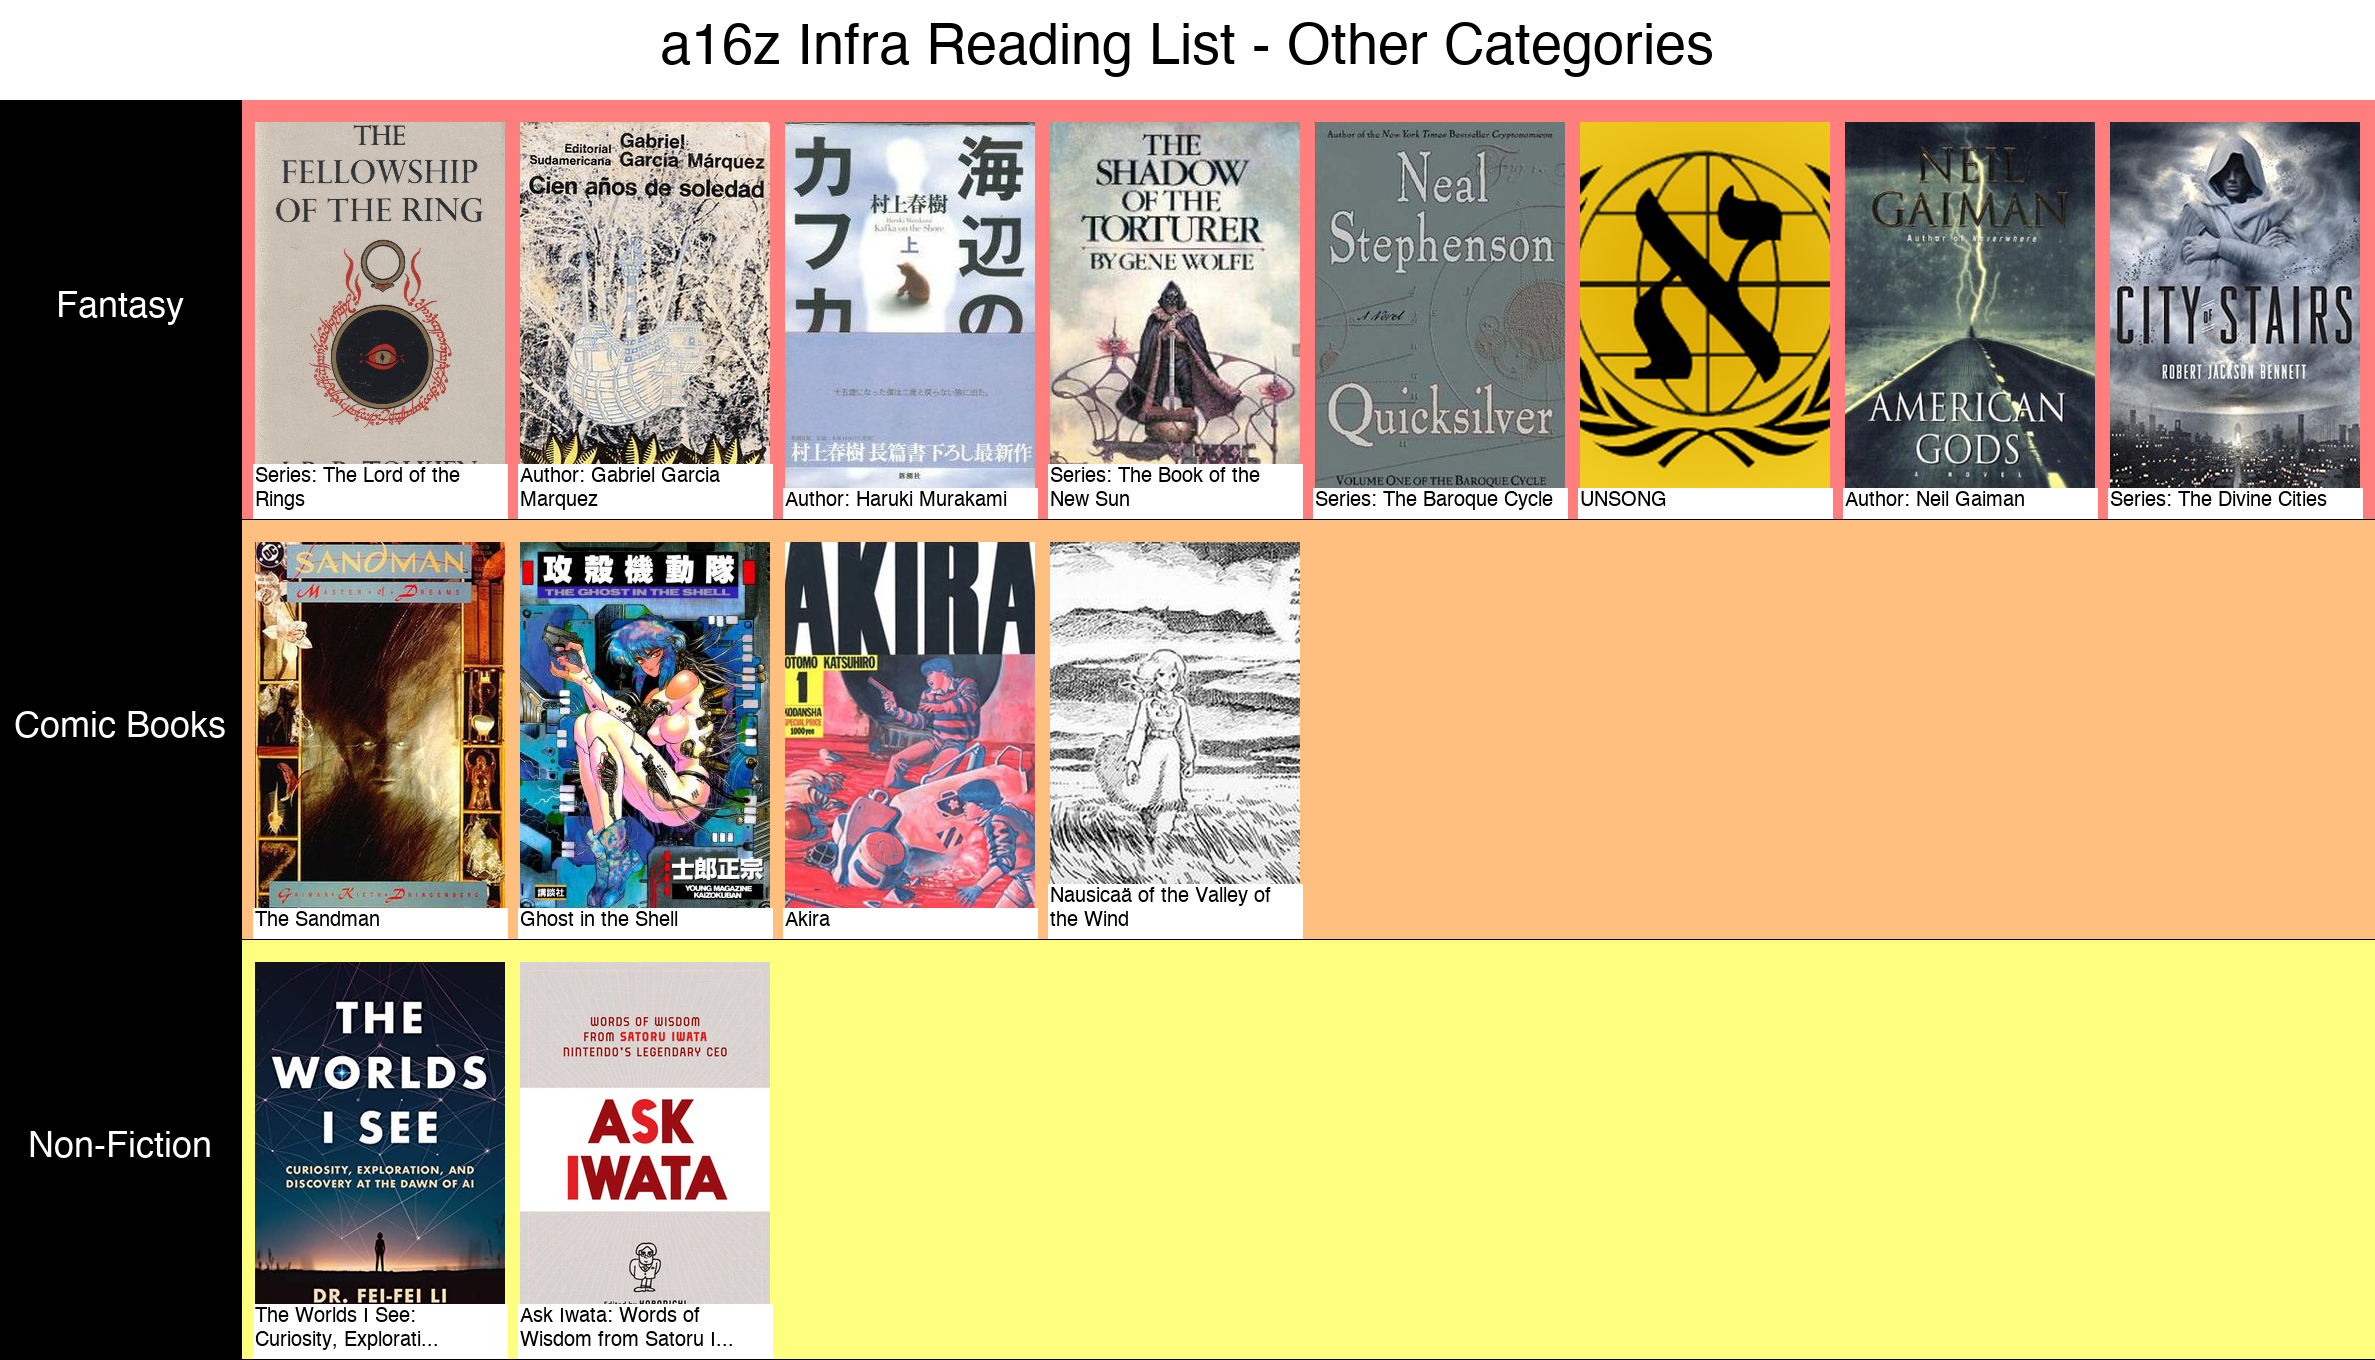
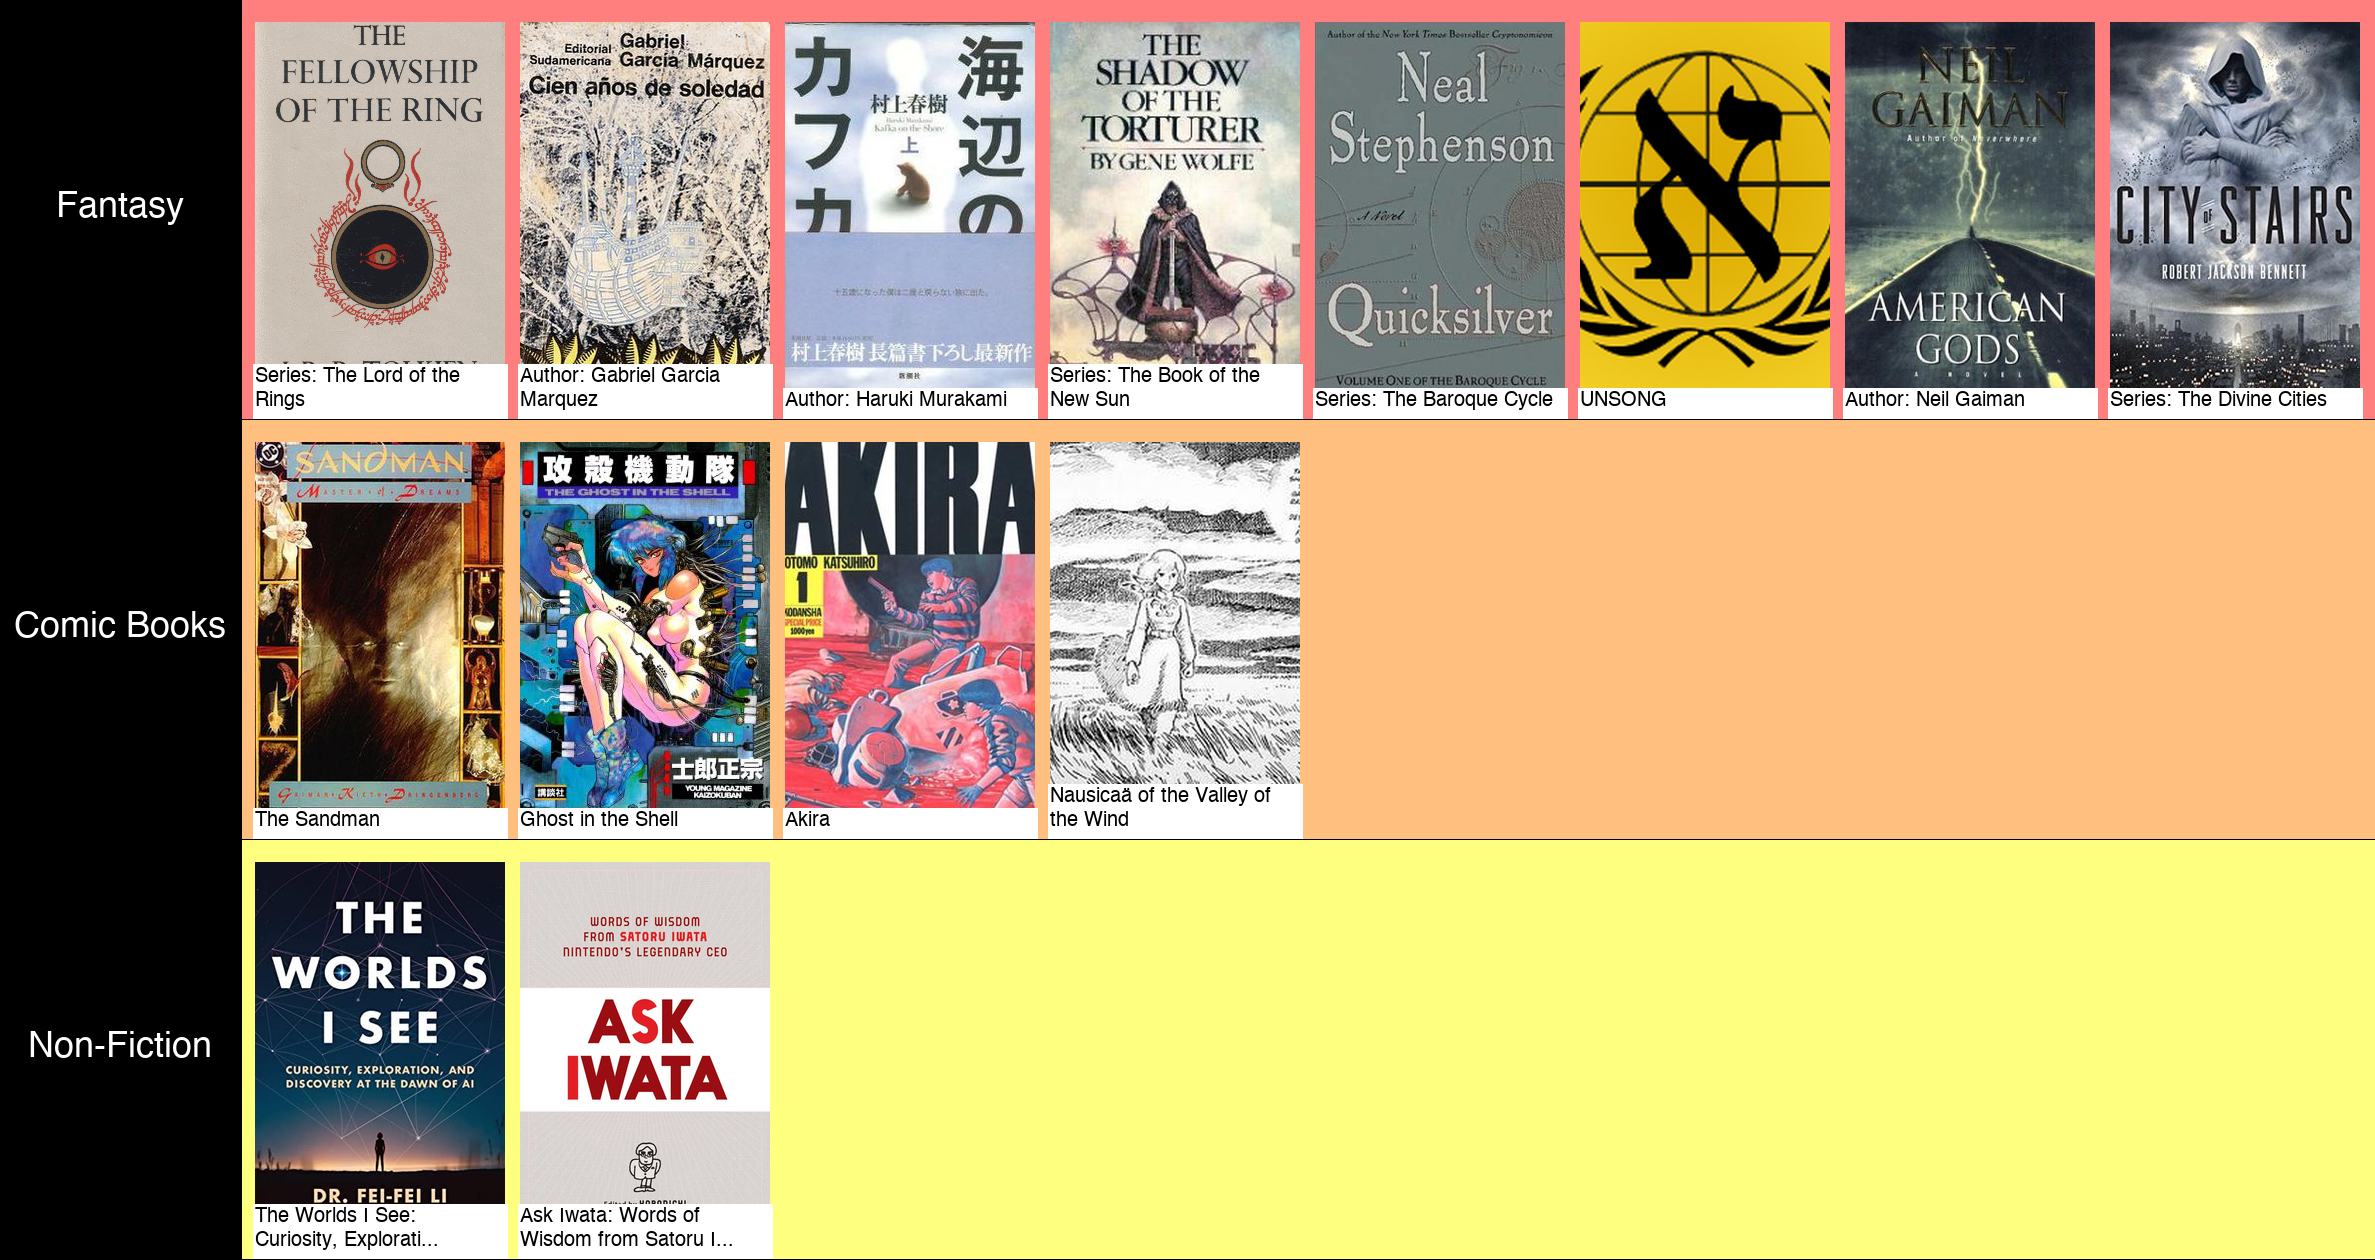
update tier list

diff --git a/generate_tier_list.py b/generate_tier_list.py
@@ -339,9 +339,9 @@ def create_tier_list(entries_by_tier, output_file='tier_list.png'):
     cover_height = 375
     padding = 15
     
-    # Calculate image dimensions based on content
+    # Calculate image dimensions based on content (no top title)
     num_tiers = len([tier for tier in entries_by_tier if entries_by_tier[tier]])
-    img_height = num_tiers * tier_height + 100  # Extra space for title
+    img_height = num_tiers * tier_height
     
     # Calculate width based on the tier with the most books
     max_books_in_tier = max(len(entries_by_tier[tier]) for tier in entries_by_tier if entries_by_tier[tier])
@@ -363,14 +363,8 @@ def create_tier_list(entries_by_tier, output_file='tier_list.png'):
         subtitle_font = ImageFont.load_default()
         book_font = ImageFont.load_default()
     
-    # Draw title
-    title = "a16z Infra Reading List - Tier List"
-    title_bbox = draw.textbbox((0, 0), title, font=title_font)
-    title_width = title_bbox[2] - title_bbox[0]
-    draw.text(((img_width - title_width) // 2, 20), title, fill='black', font=title_font)
-    
-    # Draw tiers
-    y_offset = 100
+    # Draw tiers (start at top since we removed the title)
+    y_offset = 0
     for tier in ['S', 'A_CLASSIC', 'A_VERY_GOOD', 'B', 'C']:
         if not entries_by_tier[tier]:
             continue
@@ -521,7 +515,7 @@ def create_scifi_tier_list(entries_by_tier, output_file='tier_list_scifi.png'):
     # Only include sci-fi tiers
     scifi_tiers = ['S', 'A_CLASSIC', 'A_VERY_GOOD', 'B']
     num_tiers = len([tier for tier in scifi_tiers if entries_by_tier[tier]])
-    img_height = num_tiers * tier_height + 100
+    img_height = num_tiers * tier_height
     
     # Calculate width based on the tier with the most books
     max_books_in_tier = max(len(entries_by_tier[tier]) for tier in scifi_tiers if entries_by_tier[tier])
@@ -549,14 +543,8 @@ def create_scifi_tier_list(entries_by_tier, output_file='tier_list_scifi.png'):
         'B': 'Also Worth Reading\n(B tier)'
     }
     
-    # Draw title
-    title = "a16z Infra Reading List - Sci-Fi"
-    title_bbox = draw.textbbox((0, 0), title, font=title_font)
-    title_width = title_bbox[2] - title_bbox[0]
-    draw.text(((img_width - title_width) // 2, 20), title, fill='black', font=title_font)
-    
-    # Draw tiers
-    y_offset = 100
+    # Draw tiers (start at top since we removed the title)
+    y_offset = 0
     for tier in scifi_tiers:
         if not entries_by_tier[tier]:
             continue
@@ -694,7 +682,7 @@ def create_other_categories_list(entries_by_tier, output_file='tier_list_other.p
             entries_by_category[cat].append(entry)
     
     num_categories = len([cat for cat in entries_by_category if entries_by_category[cat]])
-    img_height = num_categories * tier_height + 100
+    img_height = num_categories * tier_height
     
     # Calculate width based on the category with the most books
     max_books_in_category = max(len(entries_by_category[cat]) for cat in entries_by_category if entries_by_category[cat])
@@ -714,14 +702,8 @@ def create_other_categories_list(entries_by_tier, output_file='tier_list_other.p
         category_font = ImageFont.load_default()
         book_font = ImageFont.load_default()
     
-    # Draw title
-    title = "a16z Infra Reading List - Other Categories"
-    title_bbox = draw.textbbox((0, 0), title, font=title_font)
-    title_width = title_bbox[2] - title_bbox[0]
-    draw.text(((img_width - title_width) // 2, 20), title, fill='black', font=title_font)
-    
-    # Draw categories
-    y_offset = 100
+    # Draw categories (start at top since we removed the title)
+    y_offset = 0
     for category in ['fantasy', 'comic', 'non_fiction']:
         if not entries_by_category[category]:
             continue
@@ -836,7 +818,7 @@ def create_authors_tier_list(entries_by_tier, output_file='tier_list_authors.png
     # Only include sci-fi tiers
     scifi_tiers = ['S', 'A_CLASSIC', 'A_VERY_GOOD', 'B']
     num_tiers = len([tier for tier in scifi_tiers if entries_by_tier[tier]])
-    img_height = num_tiers * tier_height + 100
+    img_height = num_tiers * tier_height
     
     # Calculate width based on the tier with the most books
     max_books_in_tier = max(len(entries_by_tier[tier]) for tier in scifi_tiers if entries_by_tier[tier])
@@ -864,14 +846,8 @@ def create_authors_tier_list(entries_by_tier, output_file='tier_list_authors.png
         'B': 'Also Worth Reading\n(B tier)'
     }
     
-    # Draw title
-    title = "a16z Infra Reading List - Authors"
-    title_bbox = draw.textbbox((0, 0), title, font=title_font)
-    title_width = title_bbox[2] - title_bbox[0]
-    draw.text(((img_width - title_width) // 2, 20), title, fill='black', font=title_font)
-    
-    # Draw tiers
-    y_offset = 100
+    # Draw tiers (start at top since we removed the title)
+    y_offset = 0
     for tier in scifi_tiers:
         if not entries_by_tier[tier]:
             continue

diff --git a/index.md b/index.md
@@ -26,6 +26,8 @@ We hope other infra people will like these books too! Please open a PR for any c
 
 <h2 id="sci-fi" class="header-with-link"><span class="highlight2">Sci-fi</span> <a href="#" class="back-to-top">⬆</a></h2>
 
+<!-- ![](tier_list_authors.png){: .header-image} -->
+
 <h3 id="must-reads-s-tier" class="header-with-link"><span class="highlight3">Must reads (S tier)</span> <a href="#" class="back-to-top">⬆</a></h3>
 
 <blockquote class="section-intro">
